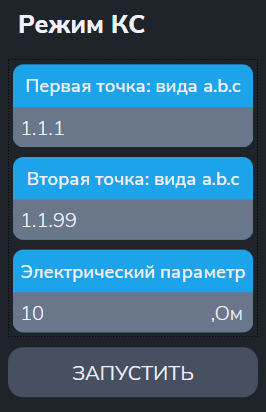
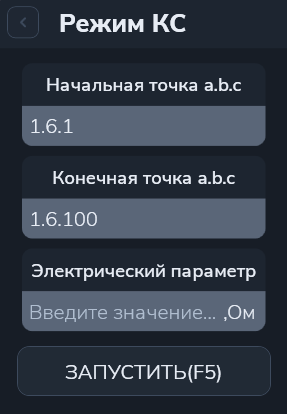
Режим КС

diff --git a/Ask.Support/AppHelp/ru/Content/MainMenuChapter/TabTrialsChapter/TabMetrologyChapter/UtilityModeKCPart.html b/Ask.Support/AppHelp/ru/Content/MainMenuChapter/TabTrialsChapter/TabMetrologyChapter/UtilityModeKCPart.html
@@ -2,60 +2,82 @@
 <html lang="ru">
 <head>
     <meta charset="utf-8">
-    <title>Утилита "Режим КС"</title>
+    <title>Режим КС</title>
     <meta name="viewport" content="width=device-width,initial-scale=1">
     <link rel="stylesheet" href="../../../../../content.css">
+    <script src="../../../../../internal-links.js" defer></script>
 </head>
-
 <body>
     <main class="page-content">
+        <h1>Режим КС</h1>
+        <p>Режим КС проверяет измерение сопротивления мультиметром в режиме омметра.
+            Приложение измеряет сопротивление между двумя заданными точками,
+            сравнивает результат с эталонным значением и рассчитывает погрешность.</p>
+        <p>Откройте <strong>«Испытания → Метрология → Режим КС»</strong>.
+            Команда открывает рабочую вкладку; измерение запускается отдельно.</p>
 
-        <h2>Утилита "Режим КС"</h2>
-
-        <p>
-            Утилита измеряет сопротивление и определяет погрешность измерения 
-            сопротивления с помощью мультиметра в режиме омметра.
-        </p>
-        <ul>
-            <li>
-                <strong>"Начальная точка a.b.c"</strong> и
-                <strong>"Конечная точка a.b.c"</strong> - входы АСК для подключения выводов 
-                магазина эталонных сопротивлений;
-            </li>
-            <li>
-                <strong>"Электрический параметр"</strong> - задание нужного эталонного 
-                сопротивления (в Ом).
-            </li>
-        </ul>
         <figure>
-            <img src="UtilityModeKCImage.png"
-                 width="266" height="412"
-                 alt="Управление режимом КС">
-            <figcaption>Рисунок 1 - Управление режимом КС</figcaption>
+            <img src="UtilityModeKCImage.png" width="287" height="414"
+                 alt="Панель режима КС: начальная точка, конечная точка, электрический параметр в омах и кнопка «Запустить (F5)»">
+            <figcaption>Параметры и запуск режима КС.</figcaption>
         </figure>
-        <br>
-        <p>
-            После ввода параметров меню автоматически выполняются следующие действия:
-        </p>
+
+        <h2>Параметры</h2>
+        <table>
+            <thead><tr><th scope="col">Поле</th><th scope="col">Что указать</th></tr></thead>
+            <tbody>
+                <tr>
+                    <td>Начальная точка a.b.c</td>
+                    <td>Первую точку подключения эталонного сопротивления.</td>
+                </tr>
+                <tr>
+                    <td>Конечная точка a.b.c</td>
+                    <td>Вторую точку подключения эталонного сопротивления.</td>
+                </tr>
+                <tr>
+                    <td>Электрический параметр</td>
+                    <td>Значение подключённого эталонного сопротивления в омах.</td>
+                </tr>
+            </tbody>
+        </table>
+        <p>В адресе <code>a.b.c</code> указываются номер шасси, номер модуля коммутации
+            и номер точки. Например, на изображении заданы точки <code>1.6.1</code>
+            и <code>1.6.100</code>. Для своей проверки укажите фактические точки подключения.</p>
+
+        <h2>Порядок работы</h2>
+        <ol>
+            <li>Подключите эталонное сопротивление к выбранным точкам системы.</li>
+            <li>Введите начальную и конечную точки.</li>
+            <li>В поле «Электрический параметр» укажите значение эталонного сопротивления в омах.</li>
+            <li>Нажмите <strong>«Запустить»</strong> или <kbd>F5</kbd> в активной вкладке режима.</li>
+            <li>Просмотрите измеренное сопротивление, допустимый диапазон и погрешность в протоколе.
+                Для повторного измерения используйте действие повтора в запросе приложения.</li>
+        </ol>
+        <p>Ввод параметров сам по себе не запускает измерение.
+            Перед работой приложение проверяет значения и наличие необходимого оборудования в конфигурации.</p>
+
+        <h2>Что выполняется после запуска</h2>
+        <p>Приложение подключает необходимую аппаратуру, настраивает коммутацию заданных точек,
+            переводит мультиметр в режим измерения сопротивления и выполняет измерение.</p>
+        <p>При работе с аппаратурой из результата вычитается настроенное сопротивление коммутации.
+            Скорректированное значение ограничивается снизу нулём и используется для оценки результата.</p>
+
+        <h2>Результаты</h2>
         <ul>
-            <li>
-                Начальная заданная точка подключается к шине A1;
-            </li>
-            <li>
-                Конечная заданная точка подключается к шине B1;
-            </li>
-            <li>
-                Вольтметр: устанавливается режим измерения и подключение к шинам A1,B1;
-            </li>
-            <li>
-                Производится измерение;
-            </li>
-            <li>
-                <u>В протокол выводится сообщения вида</u>:<br>
-                $TST1 Rд.б=100 Ом+-5 Ом (5.00%)  Rизм=100.00 Ом  Погр=0.000Ом<br>
-                $TST1  Измерений:1 Все норма  ПОГРmin=0  ПОГРmax=+0.000Ом
-            </li>
+            <li><strong>Измеренное сопротивление</strong> — результат с учётом компенсации коммутации.</li>
+            <li><strong>Допустимый диапазон</strong> — границы, рассчитанные приложением для заданного эталонного значения.</li>
+            <li><strong>Погрешность</strong> — разность измеренного и эталонного сопротивления, в омах.</li>
         </ul>
+        <p>Результат считается соответствующим допустимому диапазону, если он находится между
+            нижней и верхней границами включительно. Выход за границы отмечается в протоколе.</p>
+        <p>Если в серии выполнено не менее двух измерений, при завершении приложение
+            выводит сводку максимальной отрицательной и положительной погрешности.</p>
+        <section class="note">
+            <p>В поле «Электрический параметр» вводится эталонное значение, а не ожидаемое
+                показание мультиметра с добавленным сопротивлением коммутации.</p>
+        </section>
+        <p>Другие режимы описаны в разделе
+            <a href="../TabMetrologyPart.html" data-nav="TabMetrology">«Меню „Метрология“»</a>.</p>
     </main>
 </body>
 </html>

diff --git a/Ask.Support/AppHelp/ru/Content/MainMenuChapter/TabTrialsChapter/TabMetrologyPart.html b/Ask.Support/AppHelp/ru/Content/MainMenuChapter/TabTrialsChapter/TabMetrologyPart.html
@@ -5,11 +5,90 @@
     <title>Меню «Метрология»</title>
     <meta name="viewport" content="width=device-width, initial-scale=1">
     <link rel="stylesheet" href="../../../../content.css">
+    <script src="../../../../internal-links.js" defer></script>
 </head>
 <body>
     <main class="page-content">
         <h1>Меню «Метрология»</h1>
-        <p>Раздел содержит описание метрологических режимов КС, ИЕ, СИ, ПР, ЭТ, ПИ и КН.</p>
+        <p>Подменю «Испытания → Метрология» открывает режимы проверки измерений
+            сопротивления, ёмкости и напряжения. Приложение сопоставляет результаты
+            с заданным или введённым эталонным значением, рассчитывает погрешность
+            и выводит результаты в протокол.</p>
+        <p>В меню девять режимов. Для ПИ и КН предусмотрены отдельные пункты DCW
+            и ACW — для постоянного и переменного напряжения соответственно.</p>
+
+        <h2>Выбор режима</h2>
+        <table>
+            <thead><tr><th scope="col" style="min-width: 150px;">Режим</th><th scope="col">Что проверяется</th></tr></thead>
+            <tbody>
+                <tr>
+                    <td><a href="TabMetrologyChapter/UtilityModeKCPart.html" data-nav="UtilityModeKC">КС</a></td>
+                    <td>Измерение сопротивления мультиметром в режиме измерения сопротивления.</td>
+                </tr>
+                <tr>
+                    <td><a href="TabMetrologyChapter/UtilityModeIEPart.html" data-nav="UtilityModeIE">ИЕ</a></td>
+                    <td>Измерение электрической ёмкости мультиметром.</td>
+                </tr>
+                <tr>
+                    <td><a href="TabMetrologyChapter/UtilityModeSIPart.html" data-nav="UtilityModeSI">СИ</a></td>
+                    <td>Измерение сопротивления изоляции при заданном испытательном напряжении и времени измерения.</td>
+                </tr>
+                <tr>
+                    <td><a href="TabMetrologyChapter/UtilityModePRPart.html" data-nav="UtilityModePR">ПР</a></td>
+                    <td>Измерение сопротивления мультиметром в режиме прозвонки.</td>
+                </tr>
+                <tr>
+                    <td><a href="TabMetrologyChapter/UtilityModeEHTPart.html" data-nav="UtilityModeEHT">ЭТ</a></td>
+                    <td>Определение сопротивления по серии измерений с переключением цепей коммутации.</td>
+                </tr>
+                <tr>
+                    <td><a href="TabMetrologyChapter/UtilityModePIPart.html" data-nav="UtilityModePI">ПИ(DCW), ПИ(ACW)</a></td>
+                    <td>Проверка испытательного напряжения, выдаваемого установкой проверки прочности изоляции,
+                        по показанию эталонного прибора, которое вводит пользователь.</td>
+                </tr>
+                <tr>
+                    <td><a href="TabMetrologyChapter/UtilityModeKNPart.html" data-nav="UtilityModeKN">КН(DCW), КН(ACW)</a></td>
+                    <td>Проверка измерения напряжения мультиметром по введённому показанию эталонного прибора.</td>
+                </tr>
+            </tbody>
+        </table>
+        <p>Названия режимов открывают подробные инструкции. Варианты DCW и ACW
+            для ПИ и КН описаны в общих статьях соответствующего режима.</p>
+
+        <h2>Параметры измерения</h2>
+        <p>Во вкладке режима задаются начальная и конечная точки подключения
+            в формате <code>a.b.c</code> и электрический параметр.
+            Единицы параметра указаны рядом с полем: они зависят от выбранного режима.</p>
+        <ul>
+            <li>Для КС, ПР и ЭТ задаётся значение сопротивления, для ИЕ — ёмкости.</li>
+            <li>Для СИ дополнительно задаются испытательное напряжение и время измерения.</li>
+            <li>Для ПИ задаются испытательное напряжение, время испытания и время нарастания напряжения.</li>
+            <li>Для КН задаётся значение напряжения. Во время проверки ПИ и КН
+                приложение отдельно запрашивает показание эталонного прибора.</li>
+        </ul>
+        <p>Оборудование для измерения определяется по заданным точкам и конфигурации системы.
+            Перед запуском проверьте точки подключения, единицы и введённые значения.</p>
+
+        <h2>Порядок работы</h2>
+        <ol>
+            <li>Выберите «Испытания → Метрология» и нужный режим.</li>
+            <li>Во вкладке режима задайте точки подключения и параметры измерения.</li>
+            <li>Запустите выполнение средствами вкладки. Приложение проверит ввод,
+                подключит необходимую аппаратуру и настроит коммутацию.</li>
+            <li>Выполняйте запросы приложения. Для ПИ и КН введите показание эталонного прибора,
+                когда появится соответствующий запрос.</li>
+            <li>Просмотрите результат измерения, оценку допустимого диапазона и погрешность в протоколе.</li>
+        </ol>
+        <p>Если приложение сообщает об ошибке параметров или подключения,
+            проверьте указанную причину перед повторным запуском.</p>
+
+        <h2>Доступность</h2>
+        <p>Подменю находится в меню «Испытания», доступном ролям «Администратор»
+            и «Наладчик». Для роли «Разработчик ПК» меню «Испытания» не отображается.</p>
+        <section class="note">
+            <p>Выбор режима открывает рабочую вкладку и не запускает измерение.
+                Открывать или транслировать программу контроля для работы в этих режимах не требуется.</p>
+        </section>
     </main>
 </body>
 </html>
